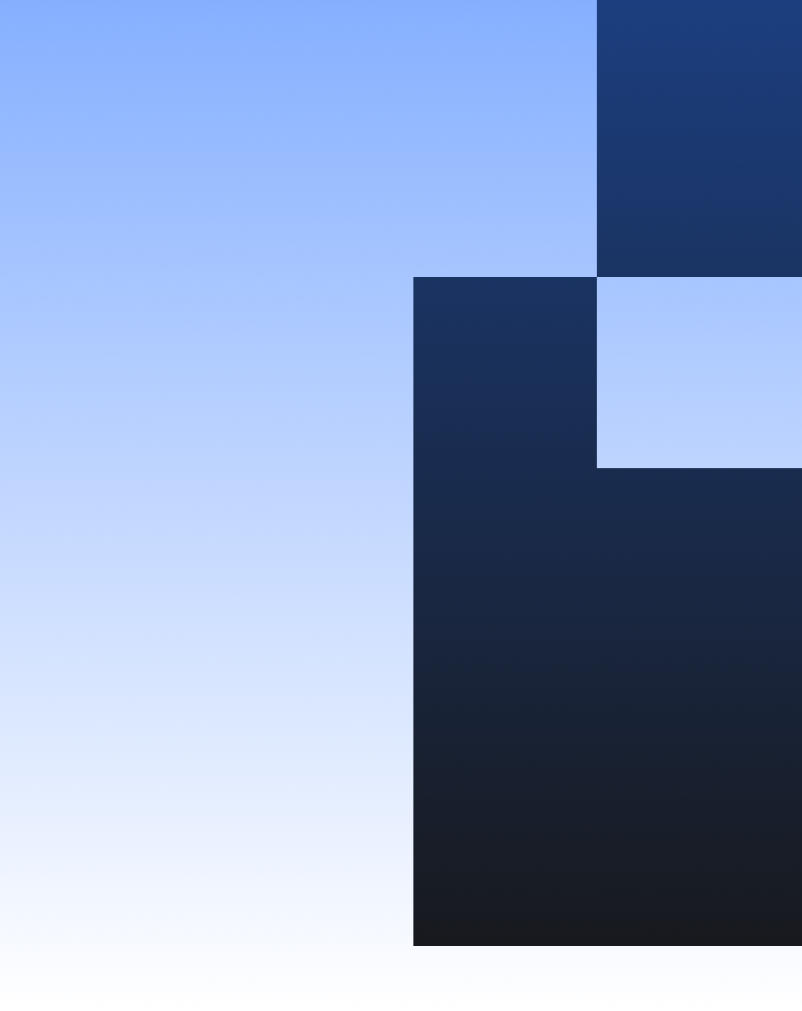
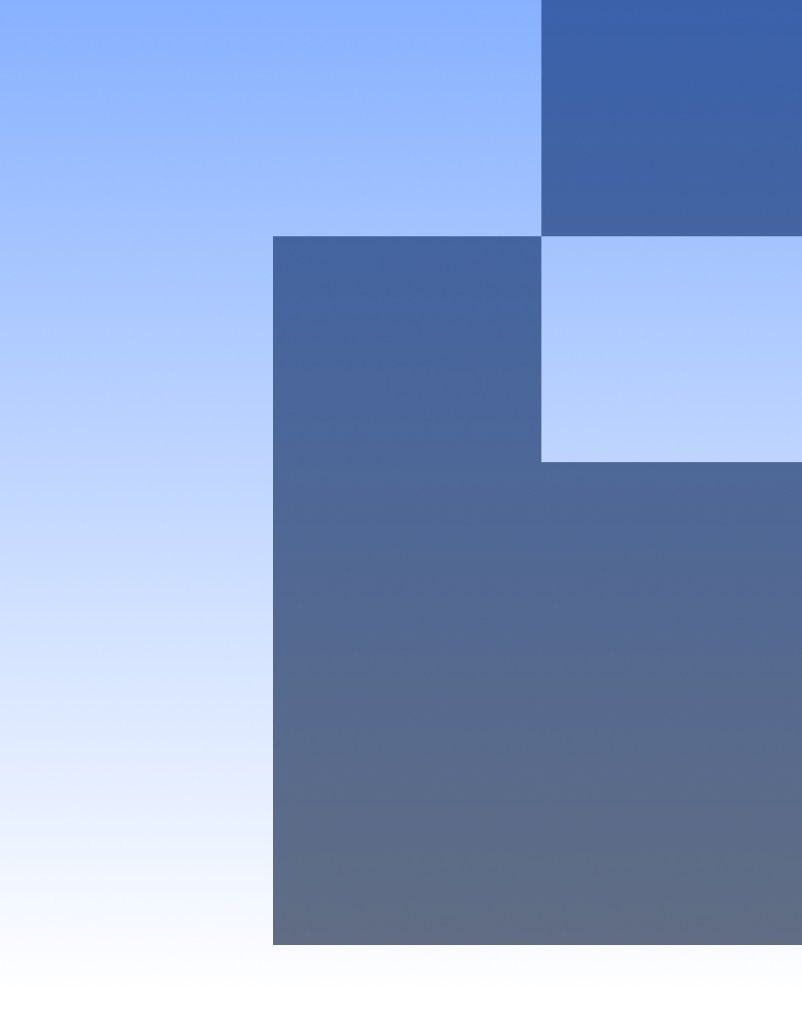
update login page design

diff --git a/src/pages/Login/LoginPage.jsx b/src/pages/Login/LoginPage.jsx
@@ -184,11 +184,11 @@ const LoginPage = () => {
 
             <form onSubmit={handleSubmit} className="flex flex-col gap-4">
               <div>
-                <label className="block text-sm font-medium text-login-text-primary mb-1.5">{t('login_label')}</label>
+                <label className="block text-sm font-medium text-login-text-primary mb-1.5">{t('full_name')}</label>
                 <input
                   name="full_name"
                   type="text"
-                  placeholder={t('login_label')}
+                  placeholder={t('full_name')}
                   value={form.full_name}
                   onChange={handleInputChange}
                   disabled={isBlocked}
@@ -210,14 +210,16 @@ const LoginPage = () => {
                     className={`w-full px-4 py-2.5 border rounded-lg outline-none transition-colors text-[15px] pr-12 ${hasPasswordError ? 'border-[#EF4444] text-[#EF4444]' : 'border-login-border focus:border-blue-500'
                       } ${isBlocked ? 'bg-login-input-disabled text-login-text-secondary' : 'bg-login-input-bg text-login-text-primary'}`}
                   />
-                  <button
-                    type="button"
-                    onClick={() => setShowPassword(!showPassword)}
-                    disabled={isBlocked}
-                    className="absolute right-3 top-1/2 cursor-pointer disabled:cursor-default -translate-y-1/2 text-login-text-secondary hover:text-login-text-primary p-1"
-                  >
-                    {showPassword ? <EyeOff className="w-4 h-4" /> : <Eye className="w-4 h-4" />}
-                  </button>
+                  {form.password.trim() &&
+                    <button
+                      type="button"
+                      onClick={() => setShowPassword(!showPassword)}
+                      disabled={isBlocked}
+                      className="absolute right-3 top-1/2 cursor-pointer disabled:cursor-default -translate-y-1/2 text-login-text-secondary hover:text-login-text-primary p-1"
+                    >
+                      {showPassword ? <EyeOff className="w-4 h-4" /> : <Eye className="w-4 h-4" />}
+                    </button>
+                  }
                 </div>
                 {emptyError && !isBlocked && (
                   <p className="text-[#EF4444] text-[13px] mt-2">
@@ -238,7 +240,7 @@ const LoginPage = () => {
                   </div>
                   <div>
                     <h3 className="text-[14px] font-semibold text-login-text-primary mb-1">{t('account_blocked_title')}</h3>
-                    <p className="text-[13px] text-login-text-secondary mb-3 leading-[1.4]">
+                    <p className="text-[13px] text-login-text-secondary mb-1 max-w-[250px]! leading-[1.4]">
                       {t('account_blocked_desc')}
                     </p>
                     <p className="text-[13px] text-login-text-secondary">
@@ -277,7 +279,7 @@ const LoginPage = () => {
             <h1 className="text-[32px] leading-[1.2] max-w-[470px] font-bold text-white dark:text-[#fafafa] mb-3">
               {t('system_title')}
             </h1>
-            <p className="text-[16px] leading-[1.5] max-w-[460px] text-[#f5f5f5] dark:text-[#a3a3a3]">
+            <p className="text-[16px] leading-[1.5] max-w-[400px] text-[#f5f5f5] dark:text-[#a3a3a3]">
               {t('system_desc')}
             </p>
           </div>

diff --git a/src/components/LanguageSwitcher.jsx b/src/components/LanguageSwitcher.jsx
@@ -28,13 +28,13 @@ export const LanguageSwitcher = () => {
                <button
                     type="button"
                     onClick={() => setLangDropdownOpen(!langDropdownOpen)}
-                    className="flex items-center gap-1.5 px-3 cursor-pointer py-2.5 rounded-md bg-login-pill-bg hover:bg-login-pill-hover text-login-pill-text text-sm font-medium"
+                    className="flex items-center gap-1.5 px-3 cursor-pointer py-2.5 rounded-md bg-login-pill-bg hover:bg-login-pill-hover text-login-pill-text text-sm font-medium transition duration-initial"
                >
                     {displayLang} <ChevronDown className="w-4 h-4 text-login-text-secondary" />
                </button>
 
                {langDropdownOpen && (
-                    <div className="absolute top-full right-0 mt-2 w-[140px] bg-login-left-bg border border-login-border rounded-lg shadow-[0_4px_20px_rgba(0,0,0,0.08)] py-1.5 overflow-hidden z-20">
+                    <div className={`absolute top-full right-0 mt-2 w-[140px] bg-login-left-bg border border-login-border rounded-lg shadow-[0_4px_20px_rgba(0,0,0,0.08)] p-1 overflow-hidden z-20`}>
                          {[
                               { value: 'uz', label: 'Uzbek' },
                               { value: 'cy', label: 'Ўзбек' },
@@ -42,7 +42,7 @@ export const LanguageSwitcher = () => {
                          ].map(lang => (
                               <button
                                    key={lang.value}
-                                   className="w-full text-left px-4 py-2 cursor-pointer text-[14px] hover:bg-login-pill-hover flex items-center justify-between"
+                                   className={`w-full text-left px-4 py-2 cursor-pointer text-[14px] hover:bg-login-pill-hover rounded-md flex items-center justify-between ${language === lang.value ? "bg-[#F5F5F5] dark:bg-[#404040]" : ""}`}
                                    onClick={() => {
                                         setLanguage(lang.value)
                                         setLangDropdownOpen(false)

diff --git a/src/Context/LanguageContext.jsx b/src/Context/LanguageContext.jsx
@@ -46,6 +46,12 @@ export const translations = {
       en: "Select date",
       ru: "Выберите дату"
      },
+     full_name: {
+          uz: "Ism familiya",
+          cy: "Исм фамилия",
+          en: "First and last name",
+          ru: "Имя и фамилия"
+     },
 
 
      // login page

diff --git a/vite.config.js b/vite.config.js
@@ -14,5 +14,9 @@ export default defineConfig({
       "@": path.resolve(__dirname, "./src"),
     },
   },
-
+  server: {
+    allowedHosts: [
+      'defiling-shoptalk-recycler.ngrok-free.dev'
+    ]
+  },
 })
